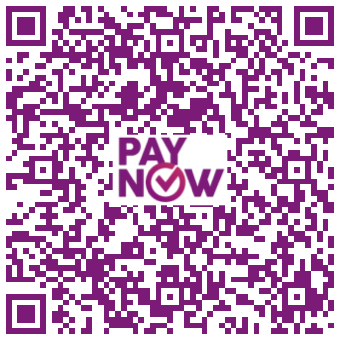
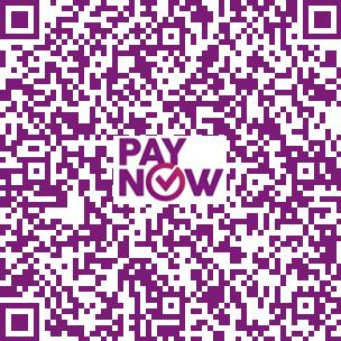
update

diff --git a/tiger/templates/enquiry.html b/tiger/templates/enquiry.html
@@ -72,10 +72,10 @@ new joys in being a Career Hustler.
                                 1. Submit your lifetime membership payment of $9.90SGD via PayNow to:
                             </p>
                             <p>
-                                    Bank Name: DBS Bank <br>
-                                    Account Name: TRUE LIGHT LLP <br>
-                                    Account Number: 0059045929 <br>
-                                    Company. Registration No.: T18LL1108L <br>
+                                    Bank Name: United Overseas Bank <br>
+                                    Account Name: Rice Consultancy Pte ltd<br>
+                                    Account Number: 355-310-827-4 <br>
+                                    Company. Registration No / PayNow: UEN 201421544W <br>
                                     Or scan the below QR code for your $9.90SGD payment: <br>
                             </p>
 
